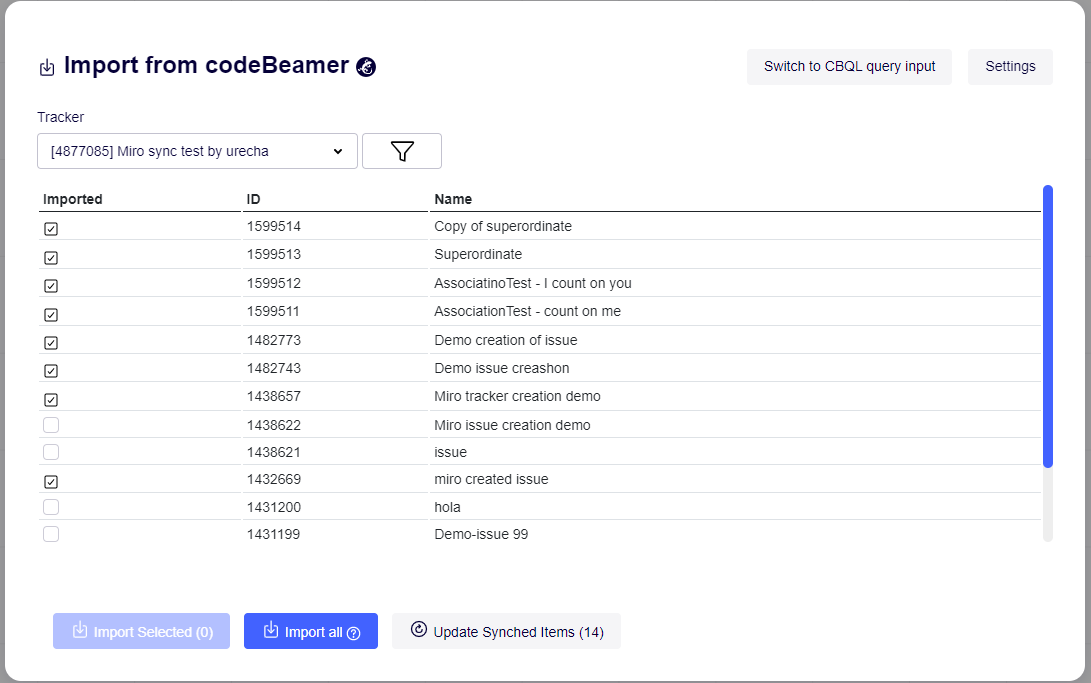
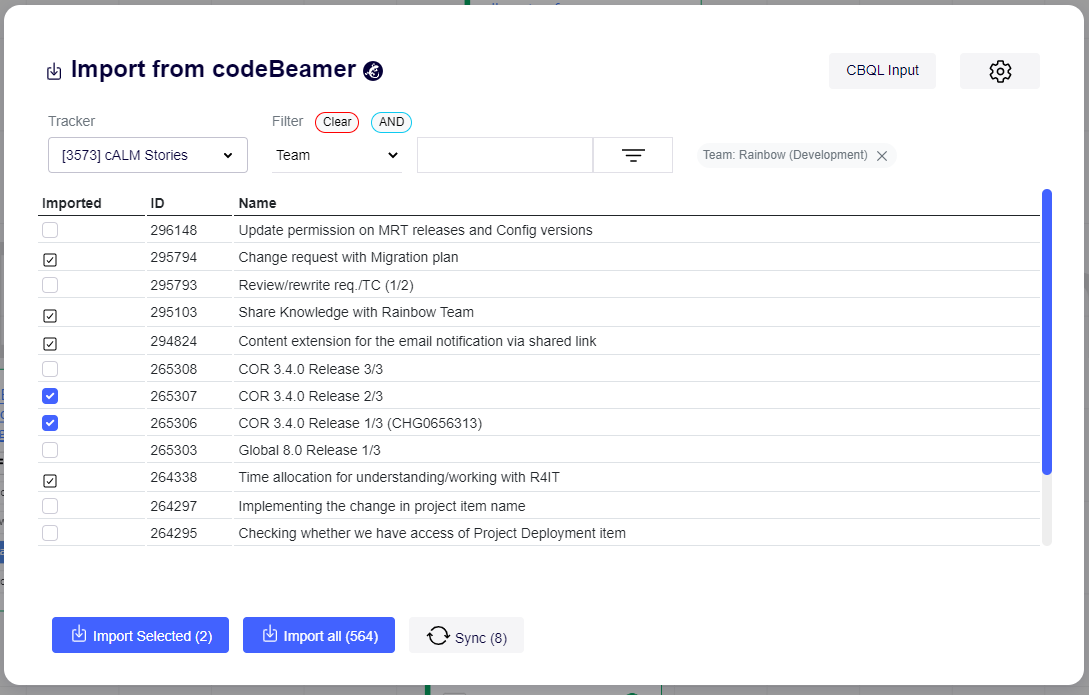
update readme.md
- updated to latest changes to ipa/develop (v0.11)

diff --git a/README.md b/README.md
@@ -3,7 +3,7 @@
 This is a [codeBeamer](https://codebeamer.com/) <-> [Miro](https://miro.com/) integration web-plugin for Miro.
 It's main goal is to automate and therefore greatly speed up the process of mirroring codeBeamer items in Miro for planning/visualization purposes.
 
-The Plugin takes inspirtaion from thea lready existend [Jira Cards](https://miro.com/works-with-atlassian/) and [Azure Cards](https://miro.com/marketplace/azure-cards/) plugins.
+The Plugin takes inspiration from the already existent [Jira Cards](https://miro.com/works-with-atlassian/) and [Azure Cards](https://miro.com/marketplace/azure-cards/) plugins for Miro.
 
 # Installation
 
@@ -22,15 +22,15 @@ Installing the app on your team will also give you an Installation URL to share 
 
 ## Abstract
 
-The plugin allows you to connect to a specific codeBeamer instance with your codeBeamer credentials. 
-Once connected, you can open the [Import page](#import-page) to query items in a project, by selecting a Tracker and optionally specifying some additional criteria. Advanced users can also query items with CBQL.  
+The plugin allows you to connect to a specific codeBeamer instance with your codeBeamer credentials. This can be done via the [Plugin Widget](#plugin-widget).
+Once connected, you can open the [Import page](#import-page) to query items in a project, by selecting a Tracker and optionally specifying filter criteria. Advanced users can also query items directly with CBQL.  
 These items can then be imported into Miro, which will result in Card Widgets that display some of the items' properties and relations between them.
 
 ## Plugin settings
 
 ### Plugin widget
 
-Once installed, the plugin will create the below widget in your board. This widget contains some basic information and allows opening the [Settings Page](#Settings-Page) with the codeBeamer-button in it's toolbar.  
+Once installed, the plugin will create the below widget in your board. This widget contains some basic information and allows opening the [Settings Page](#Settings-Page) with the codeBeamer-Button in it's toolbar.  
 _If the widget is deleted, it will be regenerated when reloading the page, as long as the plugin is loaded._
 
 ![Plugin widget](readmeImg/plugin_widget.png "The widget created by the plugin")
@@ -64,7 +64,7 @@ The Import Page gives access to the app's main functionality; Importing items fr
 
 #### Query Items
 
-You can query items from your codeBeamer instance by Tracker and Team, Release or Subject. Users familiar with CBQL can alternatively specify the exact query they want to make with a CodeBeamer Query string in the [CBQL query input](#Advanced-Search).
+In order to query items you can either use the [regular search](#regular-search), which provides you with dropdowns and inputs to specify specific filter criteria or, if you're familiar with the [CQBL](https://codebeamer.com/cb/wiki/871101), you can also specify the exact query you want to make with a CodeBeamer Query Language string in the [advanced search](#Advanced-Search).
 
 ##### Regular Search
 
@@ -72,10 +72,20 @@ First, select a tracker within the specified project from the dropdown.
 
 ![Tracker select](readmeImg/picker_tracker_select.png "Tracker select")
 
-Additionally, the results can be filtered by either _Team_, _Release_, or _Subject_, which are standard codeBeamer item properties. _Mind that results only appear if the entered name precisely equals the entity (Team/Release/Subject) its name and doesn't match partial names._  
-Add up to three criteria with the button next to the Tracker select, then choose the entity type and enter a value to filter by the selected Tracker _and_ these criteria. The criteria themselves can be chained as either _and_ or _or_, which you can change by clicking the respective badge above a criteria (currently you can only toggle all criteria to be chained as _and_ or _or_ together).
+This will query for all Items in the selected Tracker. To narrow them further down, these Items can be filtered by virtually any property; The standard properties are _Team_, _Release_ and _Subject_, but the dropdown to select your criteria type from (1) will allow to choose from all of the selected Tracker's properties.
 
-![Filter criteria](readmeImg/picker_filter_criteria.png "Filter tracker items")
+![Filter criteria](readmeImg/import-filtering.png "Filter tracker items")
+
+Image legend
+1. Select a property to filter by
+2. Enter the property's value  
+Mind that this value must *exactly* correspond to the property's (text-)value for the query to work.
+3. Add the specified filter by clicking this button
+4. Your added criteria appear as chips to the right.  
+You can remove them individually here by clicking on their X-Button
+5. This button allows removing all specified filter criteria with a single click.
+6. This button allows to toggle between linking the specified criteria with AND or OR.  
+E.g. imagine you specified two teams, "Edelweiss" and "Margarite" as filters, this allows you to either filter for Itmes that have both "Edelweiss" *and* "Margarite" assigned (AND / intersection of the result sets) or Items that have either Team "Edelweiss" *or* Team "Margarite" assigned (OR / union of the result sets).
 
 ##### Advanced Search
 
@@ -104,8 +114,6 @@ Additionally, if the card has _upstream references_ or _outgoing relations_, the
 
 ![Relation visualized](readmeImg/plugin_relations.png "Relation visualized")
 
-_Displaying the association's name as a caption on the line is currently not working, but a planned feature. Following table shows what association type has what color:_
-
 | Type                         | Color                |
 | ---------------------------- | -------------------- |
 | depends on                   | Red - #FF1500        |
@@ -120,8 +128,9 @@ _Displaying the association's name as a caption on the line is currently not wor
 
 ##### Import Configuration
 
-By clicking the "Settings" button on the top right of the Page, you open a modal where you can configure import behaviour.  
-Currently, the only configuration option is selecting what properties, from a pre-defined list, you want to be imported and displayed on the resulting Miro Cards as Badges/Tags.
+Via the "Settings" button on the top right of the Page, you can open a modal where you can configure import behaviour.  
+Currently, the only configuration option available is selecting what properties you want to be imported and displayed on the resulting Miro Cards as Badges/Tags.  
+Mind that this list of properties is currently static. Choosing a Tracker with a different configuration won't change it.
 
 ![Import configuration](readmeImg/picker_import_config.png "Import configuration modal")
 
@@ -132,7 +141,7 @@ Just check a property and the next time you import / update items, the respectiv
 Since data of cards based on a codeBeamer item are read-only and can therefore not be changed in Miro, you have to do so in codeBeamer itself.  
 Any changes made in codeBeamer can then be synchronized to the Miro board via the `Update Synched Items (y)` button on the _Import from codeBeamer_ modal.
 
-![Update button](readmeImg/picker_modal_actions_sync.png "Update button")
+![Update button](readmeImg/plugin_update_button.png "Update button")
 
 Clicking the button updates the data (relations included) of **all** codeBeamer-originating widgets on the board, so mind that it can take its time. *There's currently no way of updating only a select amount of items.*
 
@@ -149,7 +158,7 @@ Consider that:
 
 # Contribute
 
-Anyone can contribute. Just branch off of `develop` and create a Pull request when your feature is ready. If you want to propose something instead, feel free to create an [Issue](https://github.com/codeBeamer-Extensions-and-Addons/codebeamer-miro/issues).
+Anyone can contribute. Just branch off of `develop` and create a Pull request when your feature is ready. If you want to propose a feature or report a bug instead, feel free to create an [Issue](https://github.com/codeBeamer-Extensions-and-Addons/codebeamer-miro/issues).
 
 ## Local setup (deprecated)
 
@@ -176,7 +185,3 @@ If you make a change to any of the html files, you will need to stop the http se
 
 ![Console Commands](readmeImg/consoleCommands.jpg "Three consoles with the commands to run")
 ![Running Consoles](readmeImg/consoleRunning.jpg "The running consoles when running locally")
-
-# Contribute
-
-You can simply create a branch, make your changes and submit a pull request to master.
